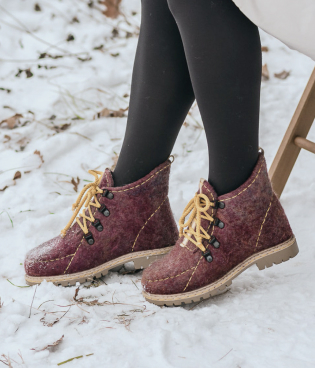
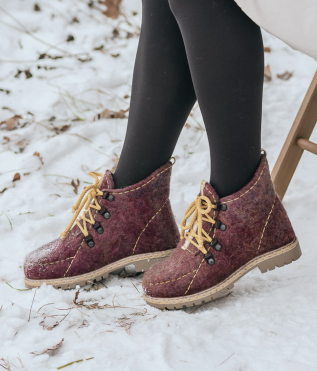
category hover

diff --git a/src/styles/_category.css b/src/styles/_category.css
@@ -3,6 +3,7 @@
     display: block;
     text-decoration: none;
     color: inherit;
+    height: 100%;
 }
     .category::before {
         content: "";
@@ -18,8 +19,13 @@
     .category__pic {
         vertical-align: top;
         width: 100%;
-        height: auto;
+        height: 100%;
         background-color: var(--image-fallback);
+        transition: filter var(--transition-hover);
+    }
+
+    .category:hover .category__pic {
+        filter: contrast(110%) sepia(5%);
     }
 
     .category__summary {
